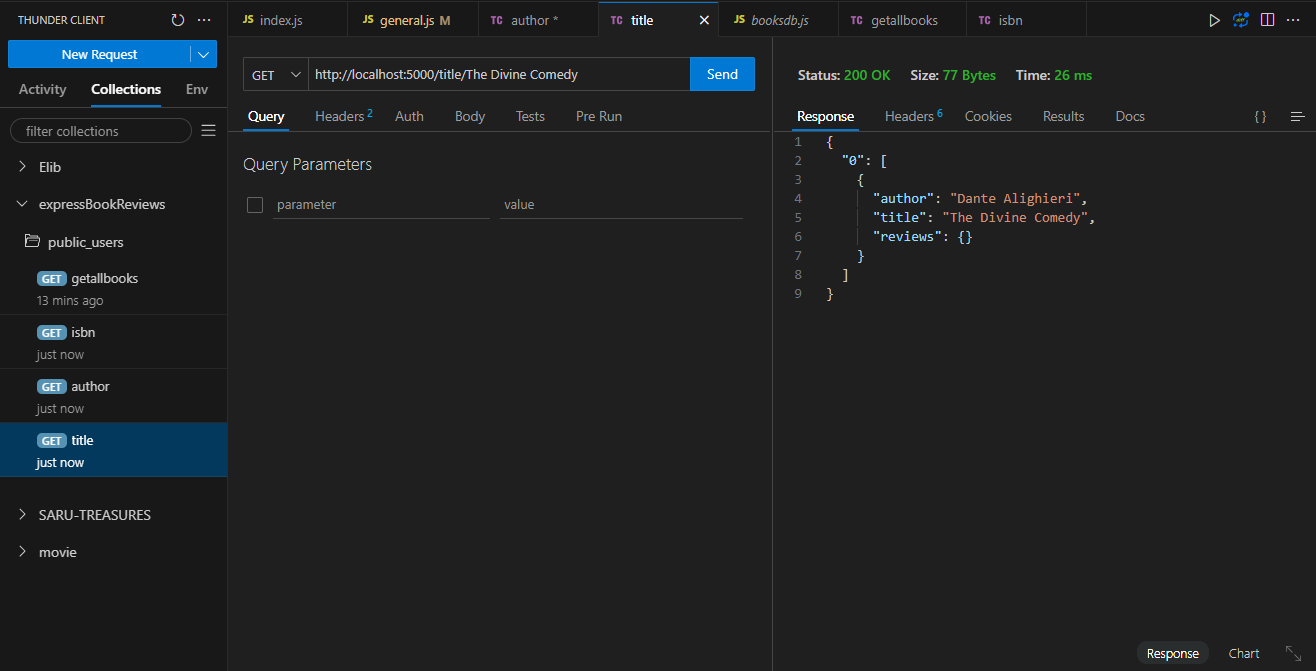
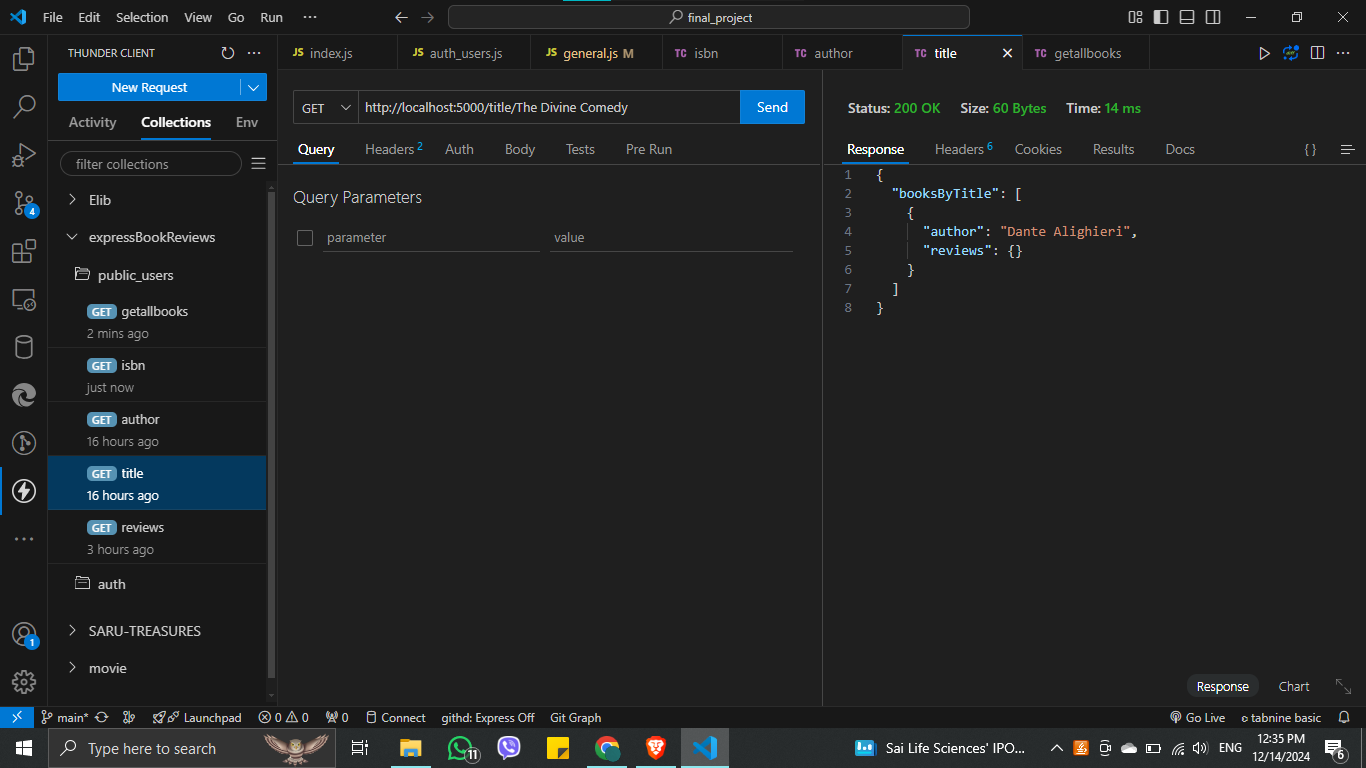
changes made to satisfy coursera condition

diff --git a/final_project/router/auth_users.js b/final_project/router/auth_users.js
@@ -31,7 +31,6 @@ regd_users.post("/login", (req, res) => {
       req.session.authorization = { user: username, accessToken: token };
       return res.status(200).json({
         message: "Customer Logged in successfully",
-        accessToken: token,
       });
     } else {
       return res.status(300).json({ message: "Invalid credentials" });
@@ -51,7 +50,9 @@ regd_users.put("/auth/review/:isbn", (req, res) => {
   if (books[isbn]) {
     const book = books[isbn];
     book.reviews[user] = review;
-    return res.status(201).json({ message: "Review added successfully" });
+    return res.status(201).json({
+      message: `Review for isbn ${isbn} by ${user} has been added/updated successfully`,
+    });
   }
   return res.status(400).json({ message: "book not found" });
 });
@@ -63,7 +64,9 @@ regd_users.delete("/auth/review/:isbn", (req, res) => {
     const book = books[isbn];
     if (book.reviews[user]) {
       delete book.reviews[user];
-      return res.status(200).json({ message: "Review deleted successfully" });
+      return res.status(200).json({
+        message: `Review for the isbn ${isbn} by ${user} has been deleted`,
+      });
     } else {
       return res.status(400).json({ message: "Review not found" });
     }

diff --git a/final_project/router/general.js b/final_project/router/general.js
@@ -24,7 +24,9 @@ public_users.post("/register", (req, res) => {
 
 // Get the book list available in the shop
 public_users.get("/", function (req, res) {
-  return res.status(200).send(JSON.stringify(books, null, 4));
+  return res.status(200).json({
+    books: books,
+  });
 });
 
 // Get book details based on ISBN
@@ -32,7 +34,7 @@ public_users.get("/isbn/:isbn", function (req, res) {
   const isbn = req.params.isbn;
   const book = books[isbn];
   if (book) {
-    return res.status(200).json({ [isbn]: book });
+    return res.status(200).send(book);
   }
   return res.status(404).json({ message: "No book found for this ISBN" });
 });
